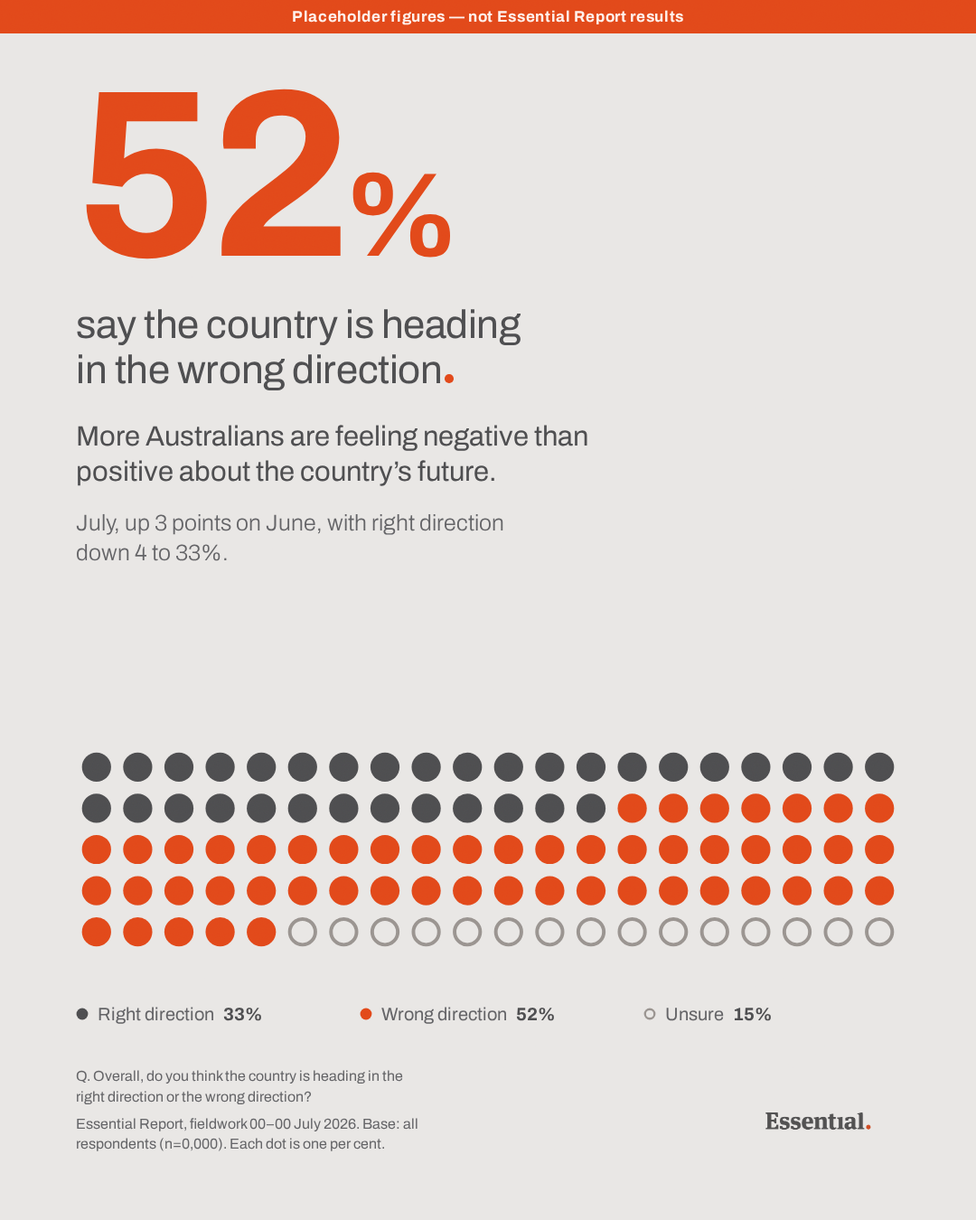
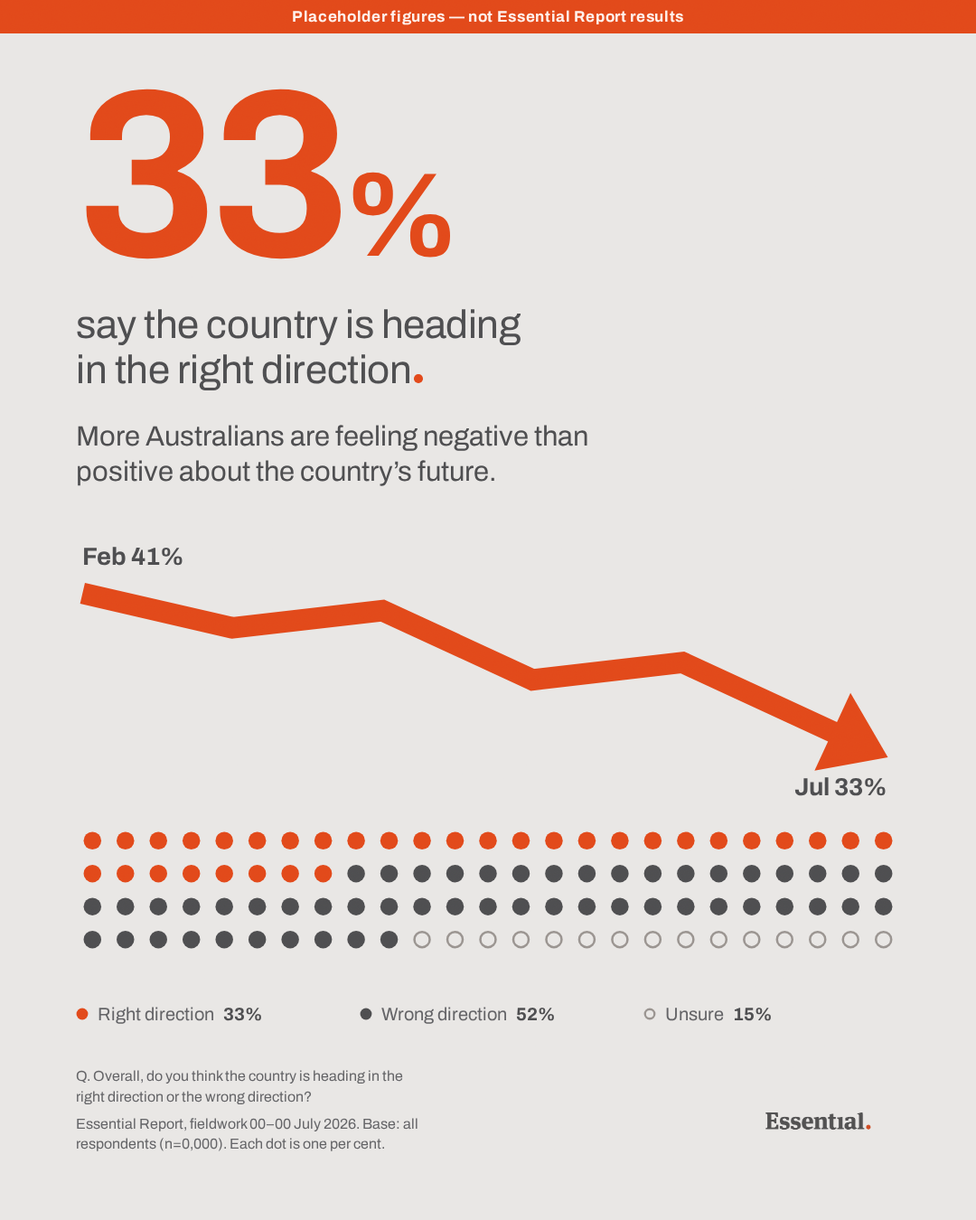
Draw the trend as an arrow, and drop the movement sentence
A shape registers before a sentence does, and the tile had no signal that
things were moving at all until you read the third line.

Adds a heavy arrow across the middle of the tile. Not a stock icon: the
house list bans icons used as data marks, and a generic downward arrow
asserts a slide the figures may not support. Every elbow is a real monthly
reading — x evenly spaced by month, y on a linear scale, so pixels-per-point
is constant across the line. Geometric rather than rounded, matching the
brand's register: miter joins, butt caps, one flat fill.

The build refuses to run if the series' last two points disagree with the
june and july figures, so the arrow cannot contradict the key beneath it.

The arrow takes the accent, which means it must track the group the accent
already names — otherwise orange means one thing in the hero figure and
another in the line. So DATA["accent"] is now a single switch with two
coherent settings: "right" gives a falling arrow and a hero reporting the
positive share, "wrong" gives a climbing arrow and the negative share.
Default flipped to "right" for the falling picture.

The movement sentence is removed — the arrow states it. The dot band goes
to 25x4 to give up the height.

The seeded series is a placeholder that happens to decline. If the real
readings don't, the arrow won't.

Clean under check-artifact.py --strict.

Claude-Session: https://claude.ai/code/session_0177wYinpJbYXVs6buR3dcrH

diff --git a/examples/essential-report-july-2026/tile.html b/examples/essential-report-july-2026/tile.html
@@ -3,7 +3,7 @@
 <head>
 <meta charset="utf-8">
 <meta name="editorial-motion" content="1.10.0">
-<title>Wrong direction — Essential Report, July</title>
+<title>Right direction — Essential Report, July</title>
 <!-- check-artifact-ignore: homogenise-imagery
      The only raster asset is the Essential wordmark. .an-homogenise greyscales
      what it wraps, which would strip the brand dot out of the logo; the rule
@@ -33,7 +33,7 @@ body::after{
 /* Every block but the plot is flex:none. Without it they share the shrink when
    copy runs long, and the source line silently loses its last row — which is
    the one carrying the sample size. The plot absorbs it all instead. */
-.hero,.hero-label,.takeaway,.change,.keys,.foot{flex:none}
+.hero,.hero-label,.takeaway,.keys,.foot{flex:none}
 
 /* The hero carries the accent because it and the accent dots state the same
    fact. At this size it clears the 3:1 large-text floor (measured 3.27:1);
@@ -58,11 +58,12 @@ body::after{
 .dot-mark{display:inline-block;width:.22em;height:.22em;border-radius:50%;
   background:#E2491A;margin-left:.07em;vertical-align:baseline}
 
-/* One movement line, not three delta chips. */
-.change{
-  margin-top:20px;font-weight:300;font-size:25px;line-height:1.32;
-  color:#636366;max-width:34ch;
-}
+/* The arrow carries the movement, so the sentence that used to state it is
+   gone. Less copy, and the change is legible before anything is read. */
+.arrow{flex:1 1 auto;min-height:0;display:flex;align-items:center;
+  padding:34px 0 10px}
+.trend{width:100%;height:auto;max-height:100%;overflow:visible}
+.tl{font-family:inherit;font-size:30px;font-weight:700;fill:#4E4E50}
 
 /* flex-basis auto, not 0 — a basis of 0 gives the plot no shrink weight, so
    the browser takes the overflow out of the copy blocks instead. min-height:0
@@ -70,8 +71,8 @@ body::after{
 /* The band sits with its key rather than centred in the leftover space: the
    slack collects in one break between the statement and the evidence instead
    of splitting into two gaps that leave the marks floating. */
-.plot{flex:1 1 auto;min-height:0;display:flex;align-items:flex-end;
-  justify-content:flex-start;padding:40px 0 34px}
+.plot{flex:none;display:flex;align-items:flex-end;
+  justify-content:flex-start;padding:26px 0 30px}
 .grid{width:100%;height:auto;max-height:100%}
 
 .keys{display:flex;gap:30px;margin-top:22px}
@@ -94,14 +95,15 @@ body::after{
 </head>
 <body>
 <p class="placeholder">Placeholder figures — not Essential Report results</p>
-<p class="hero">52<span class="unit">%</span></p>
-<h1 class="hero-label">say the country is heading in the wrong direction<span class="dot-mark"></span></h1>
+<p class="hero">33<span class="unit">%</span></p>
+<h1 class="hero-label">say the country is heading in the right direction<span class="dot-mark"></span></h1>
 <p class="takeaway">More Australians are feeling negative than positive about the country’s future.</p>
-<p class="change">July, up 3 points on June, with right direction down 4 to 33%.</p>
 
-<div class="plot"><svg class="grid" viewBox="0 0 1160 290" width="1160" height="290" role="img" aria-label="One hundred dots, one dot for each per cent"><circle cx="29" cy="29" r="20.5" fill="#4E4E50"/><circle cx="87" cy="29" r="20.5" fill="#4E4E50"/><circle cx="145" cy="29" r="20.5" fill="#4E4E50"/><circle cx="203" cy="29" r="20.5" fill="#4E4E50"/><circle cx="261" cy="29" r="20.5" fill="#4E4E50"/><circle cx="319" cy="29" r="20.5" fill="#4E4E50"/><circle cx="377" cy="29" r="20.5" fill="#4E4E50"/><circle cx="435" cy="29" r="20.5" fill="#4E4E50"/><circle cx="493" cy="29" r="20.5" fill="#4E4E50"/><circle cx="551" cy="29" r="20.5" fill="#4E4E50"/><circle cx="609" cy="29" r="20.5" fill="#4E4E50"/><circle cx="667" cy="29" r="20.5" fill="#4E4E50"/><circle cx="725" cy="29" r="20.5" fill="#4E4E50"/><circle cx="783" cy="29" r="20.5" fill="#4E4E50"/><circle cx="841" cy="29" r="20.5" fill="#4E4E50"/><circle cx="899" cy="29" r="20.5" fill="#4E4E50"/><circle cx="957" cy="29" r="20.5" fill="#4E4E50"/><circle cx="1015" cy="29" r="20.5" fill="#4E4E50"/><circle cx="1073" cy="29" r="20.5" fill="#4E4E50"/><circle cx="1131" cy="29" r="20.5" fill="#4E4E50"/><circle cx="29" cy="87" r="20.5" fill="#4E4E50"/><circle cx="87" cy="87" r="20.5" fill="#4E4E50"/><circle cx="145" cy="87" r="20.5" fill="#4E4E50"/><circle cx="203" cy="87" r="20.5" fill="#4E4E50"/><circle cx="261" cy="87" r="20.5" fill="#4E4E50"/><circle cx="319" cy="87" r="20.5" fill="#4E4E50"/><circle cx="377" cy="87" r="20.5" fill="#4E4E50"/><circle cx="435" cy="87" r="20.5" fill="#4E4E50"/><circle cx="493" cy="87" r="20.5" fill="#4E4E50"/><circle cx="551" cy="87" r="20.5" fill="#4E4E50"/><circle cx="609" cy="87" r="20.5" fill="#4E4E50"/><circle cx="667" cy="87" r="20.5" fill="#4E4E50"/><circle cx="725" cy="87" r="20.5" fill="#4E4E50"/><circle cx="783" cy="87" r="20.5" fill="#E2491A"/><circle cx="841" cy="87" r="20.5" fill="#E2491A"/><circle cx="899" cy="87" r="20.5" fill="#E2491A"/><circle cx="957" cy="87" r="20.5" fill="#E2491A"/><circle cx="1015" cy="87" r="20.5" fill="#E2491A"/><circle cx="1073" cy="87" r="20.5" fill="#E2491A"/><circle cx="1131" cy="87" r="20.5" fill="#E2491A"/><circle cx="29" cy="145" r="20.5" fill="#E2491A"/><circle cx="87" cy="145" r="20.5" fill="#E2491A"/><circle cx="145" cy="145" r="20.5" fill="#E2491A"/><circle cx="203" cy="145" r="20.5" fill="#E2491A"/><circle cx="261" cy="145" r="20.5" fill="#E2491A"/><circle cx="319" cy="145" r="20.5" fill="#E2491A"/><circle cx="377" cy="145" r="20.5" fill="#E2491A"/><circle cx="435" cy="145" r="20.5" fill="#E2491A"/><circle cx="493" cy="145" r="20.5" fill="#E2491A"/><circle cx="551" cy="145" r="20.5" fill="#E2491A"/><circle cx="609" cy="145" r="20.5" fill="#E2491A"/><circle cx="667" cy="145" r="20.5" fill="#E2491A"/><circle cx="725" cy="145" r="20.5" fill="#E2491A"/><circle cx="783" cy="145" r="20.5" fill="#E2491A"/><circle cx="841" cy="145" r="20.5" fill="#E2491A"/><circle cx="899" cy="145" r="20.5" fill="#E2491A"/><circle cx="957" cy="145" r="20.5" fill="#E2491A"/><circle cx="1015" cy="145" r="20.5" fill="#E2491A"/><circle cx="1073" cy="145" r="20.5" fill="#E2491A"/><circle cx="1131" cy="145" r="20.5" fill="#E2491A"/><circle cx="29" cy="203" r="20.5" fill="#E2491A"/><circle cx="87" cy="203" r="20.5" fill="#E2491A"/><circle cx="145" cy="203" r="20.5" fill="#E2491A"/><circle cx="203" cy="203" r="20.5" fill="#E2491A"/><circle cx="261" cy="203" r="20.5" fill="#E2491A"/><circle cx="319" cy="203" r="20.5" fill="#E2491A"/><circle cx="377" cy="203" r="20.5" fill="#E2491A"/><circle cx="435" cy="203" r="20.5" fill="#E2491A"/><circle cx="493" cy="203" r="20.5" fill="#E2491A"/><circle cx="551" cy="203" r="20.5" fill="#E2491A"/><circle cx="609" cy="203" r="20.5" fill="#E2491A"/><circle cx="667" cy="203" r="20.5" fill="#E2491A"/><circle cx="725" cy="203" r="20.5" fill="#E2491A"/><circle cx="783" cy="203" r="20.5" fill="#E2491A"/><circle cx="841" cy="203" r="20.5" fill="#E2491A"/><circle cx="899" cy="203" r="20.5" fill="#E2491A"/><circle cx="957" cy="203" r="20.5" fill="#E2491A"/><circle cx="1015" cy="203" r="20.5" fill="#E2491A"/><circle cx="1073" cy="203" r="20.5" fill="#E2491A"/><circle cx="1131" cy="203" r="20.5" fill="#E2491A"/><circle cx="29" cy="261" r="20.5" fill="#E2491A"/><circle cx="87" cy="261" r="20.5" fill="#E2491A"/><circle cx="145" cy="261" r="20.5" fill="#E2491A"/><circle cx="203" cy="261" r="20.5" fill="#E2491A"/><circle cx="261" cy="261" r="20.5" fill="#E2491A"/><circle cx="319" cy="261" r="18" fill="none" stroke="#9A9490" stroke-width="5"/><circle cx="377" cy="261" r="18" fill="none" stroke="#9A9490" stroke-width="5"/><circle cx="435" cy="261" r="18" fill="none" stroke="#9A9490" stroke-width="5"/><circle cx="493" cy="261" r="18" fill="none" stroke="#9A9490" stroke-width="5"/><circle cx="551" cy="261" r="18" fill="none" stroke="#9A9490" stroke-width="5"/><circle cx="609" cy="261" r="18" fill="none" stroke="#9A9490" stroke-width="5"/><circle cx="667" cy="261" r="18" fill="none" stroke="#9A9490" stroke-width="5"/><circle cx="725" cy="261" r="18" fill="none" stroke="#9A9490" stroke-width="5"/><circle cx="783" cy="261" r="18" fill="none" stroke="#9A9490" stroke-width="5"/><circle cx="841" cy="261" r="18" fill="none" stroke="#9A9490" stroke-width="5"/><circle cx="899" cy="261" r="18" fill="none" stroke="#9A9490" stroke-width="5"/><circle cx="957" cy="261" r="18" fill="none" stroke="#9A9490" stroke-width="5"/><circle cx="1015" cy="261" r="18" fill="none" stroke="#9A9490" stroke-width="5"/><circle cx="1073" cy="261" r="18" fill="none" stroke="#9A9490" stroke-width="5"/><circle cx="1131" cy="261" r="18" fill="none" stroke="#9A9490" stroke-width="5"/></svg></div>
+<div class="arrow"><svg class="trend" viewBox="0 0 1000 300" role="img" aria-label="Right direction, falling from 41% in Feb to 33% in Jul"><polyline points="8.0,74.0 190.0,116.0 372.0,95.0 554.0,179.0 736.0,158.0 918.0,242.0 919.8,242.8" fill="none" stroke="#E2491A" stroke-width="26" stroke-linejoin="miter" stroke-linecap="butt"/><polygon points="985.2,273.0 896.2,289.2 939.8,194.8" fill="#E2491A"/><text x="8.0" y="40.0" class="tl">Feb 41%</text><text x="985.2" y="319.0" text-anchor="end" class="tl tl-end">Jul 33%</text></svg></div>
 
-<div class="keys"><p class="k"><svg class="sw" viewBox="0 0 24 24" width="14" height="14"><circle cx="12" cy="12" r="11" fill="#4E4E50"/></svg><span class="k-name">Right direction</span><span class="k-val">33%</span></p><p class="k"><svg class="sw" viewBox="0 0 24 24" width="14" height="14"><circle cx="12" cy="12" r="11" fill="#E2491A"/></svg><span class="k-name">Wrong direction</span><span class="k-val">52%</span></p><p class="k"><svg class="sw" viewBox="0 0 24 24" width="14" height="14"><circle cx="12" cy="12" r="9" fill="none" stroke="#9A9490" stroke-width="4"/></svg><span class="k-name">Unsure</span><span class="k-val">15%</span></p></div>
+<div class="plot"><svg class="grid" viewBox="0 0 1450 232" width="1450" height="232" role="img" aria-label="One hundred dots, one dot for each per cent"><circle cx="29" cy="29" r="15.5" fill="#E2491A"/><circle cx="87" cy="29" r="15.5" fill="#E2491A"/><circle cx="145" cy="29" r="15.5" fill="#E2491A"/><circle cx="203" cy="29" r="15.5" fill="#E2491A"/><circle cx="261" cy="29" r="15.5" fill="#E2491A"/><circle cx="319" cy="29" r="15.5" fill="#E2491A"/><circle cx="377" cy="29" r="15.5" fill="#E2491A"/><circle cx="435" cy="29" r="15.5" fill="#E2491A"/><circle cx="493" cy="29" r="15.5" fill="#E2491A"/><circle cx="551" cy="29" r="15.5" fill="#E2491A"/><circle cx="609" cy="29" r="15.5" fill="#E2491A"/><circle cx="667" cy="29" r="15.5" fill="#E2491A"/><circle cx="725" cy="29" r="15.5" fill="#E2491A"/><circle cx="783" cy="29" r="15.5" fill="#E2491A"/><circle cx="841" cy="29" r="15.5" fill="#E2491A"/><circle cx="899" cy="29" r="15.5" fill="#E2491A"/><circle cx="957" cy="29" r="15.5" fill="#E2491A"/><circle cx="1015" cy="29" r="15.5" fill="#E2491A"/><circle cx="1073" cy="29" r="15.5" fill="#E2491A"/><circle cx="1131" cy="29" r="15.5" fill="#E2491A"/><circle cx="1189" cy="29" r="15.5" fill="#E2491A"/><circle cx="1247" cy="29" r="15.5" fill="#E2491A"/><circle cx="1305" cy="29" r="15.5" fill="#E2491A"/><circle cx="1363" cy="29" r="15.5" fill="#E2491A"/><circle cx="1421" cy="29" r="15.5" fill="#E2491A"/><circle cx="29" cy="87" r="15.5" fill="#E2491A"/><circle cx="87" cy="87" r="15.5" fill="#E2491A"/><circle cx="145" cy="87" r="15.5" fill="#E2491A"/><circle cx="203" cy="87" r="15.5" fill="#E2491A"/><circle cx="261" cy="87" r="15.5" fill="#E2491A"/><circle cx="319" cy="87" r="15.5" fill="#E2491A"/><circle cx="377" cy="87" r="15.5" fill="#E2491A"/><circle cx="435" cy="87" r="15.5" fill="#E2491A"/><circle cx="493" cy="87" r="15.5" fill="#4E4E50"/><circle cx="551" cy="87" r="15.5" fill="#4E4E50"/><circle cx="609" cy="87" r="15.5" fill="#4E4E50"/><circle cx="667" cy="87" r="15.5" fill="#4E4E50"/><circle cx="725" cy="87" r="15.5" fill="#4E4E50"/><circle cx="783" cy="87" r="15.5" fill="#4E4E50"/><circle cx="841" cy="87" r="15.5" fill="#4E4E50"/><circle cx="899" cy="87" r="15.5" fill="#4E4E50"/><circle cx="957" cy="87" r="15.5" fill="#4E4E50"/><circle cx="1015" cy="87" r="15.5" fill="#4E4E50"/><circle cx="1073" cy="87" r="15.5" fill="#4E4E50"/><circle cx="1131" cy="87" r="15.5" fill="#4E4E50"/><circle cx="1189" cy="87" r="15.5" fill="#4E4E50"/><circle cx="1247" cy="87" r="15.5" fill="#4E4E50"/><circle cx="1305" cy="87" r="15.5" fill="#4E4E50"/><circle cx="1363" cy="87" r="15.5" fill="#4E4E50"/><circle cx="1421" cy="87" r="15.5" fill="#4E4E50"/><circle cx="29" cy="145" r="15.5" fill="#4E4E50"/><circle cx="87" cy="145" r="15.5" fill="#4E4E50"/><circle cx="145" cy="145" r="15.5" fill="#4E4E50"/><circle cx="203" cy="145" r="15.5" fill="#4E4E50"/><circle cx="261" cy="145" r="15.5" fill="#4E4E50"/><circle cx="319" cy="145" r="15.5" fill="#4E4E50"/><circle cx="377" cy="145" r="15.5" fill="#4E4E50"/><circle cx="435" cy="145" r="15.5" fill="#4E4E50"/><circle cx="493" cy="145" r="15.5" fill="#4E4E50"/><circle cx="551" cy="145" r="15.5" fill="#4E4E50"/><circle cx="609" cy="145" r="15.5" fill="#4E4E50"/><circle cx="667" cy="145" r="15.5" fill="#4E4E50"/><circle cx="725" cy="145" r="15.5" fill="#4E4E50"/><circle cx="783" cy="145" r="15.5" fill="#4E4E50"/><circle cx="841" cy="145" r="15.5" fill="#4E4E50"/><circle cx="899" cy="145" r="15.5" fill="#4E4E50"/><circle cx="957" cy="145" r="15.5" fill="#4E4E50"/><circle cx="1015" cy="145" r="15.5" fill="#4E4E50"/><circle cx="1073" cy="145" r="15.5" fill="#4E4E50"/><circle cx="1131" cy="145" r="15.5" fill="#4E4E50"/><circle cx="1189" cy="145" r="15.5" fill="#4E4E50"/><circle cx="1247" cy="145" r="15.5" fill="#4E4E50"/><circle cx="1305" cy="145" r="15.5" fill="#4E4E50"/><circle cx="1363" cy="145" r="15.5" fill="#4E4E50"/><circle cx="1421" cy="145" r="15.5" fill="#4E4E50"/><circle cx="29" cy="203" r="15.5" fill="#4E4E50"/><circle cx="87" cy="203" r="15.5" fill="#4E4E50"/><circle cx="145" cy="203" r="15.5" fill="#4E4E50"/><circle cx="203" cy="203" r="15.5" fill="#4E4E50"/><circle cx="261" cy="203" r="15.5" fill="#4E4E50"/><circle cx="319" cy="203" r="15.5" fill="#4E4E50"/><circle cx="377" cy="203" r="15.5" fill="#4E4E50"/><circle cx="435" cy="203" r="15.5" fill="#4E4E50"/><circle cx="493" cy="203" r="15.5" fill="#4E4E50"/><circle cx="551" cy="203" r="15.5" fill="#4E4E50"/><circle cx="609" cy="203" r="13.5" fill="none" stroke="#9A9490" stroke-width="4"/><circle cx="667" cy="203" r="13.5" fill="none" stroke="#9A9490" stroke-width="4"/><circle cx="725" cy="203" r="13.5" fill="none" stroke="#9A9490" stroke-width="4"/><circle cx="783" cy="203" r="13.5" fill="none" stroke="#9A9490" stroke-width="4"/><circle cx="841" cy="203" r="13.5" fill="none" stroke="#9A9490" stroke-width="4"/><circle cx="899" cy="203" r="13.5" fill="none" stroke="#9A9490" stroke-width="4"/><circle cx="957" cy="203" r="13.5" fill="none" stroke="#9A9490" stroke-width="4"/><circle cx="1015" cy="203" r="13.5" fill="none" stroke="#9A9490" stroke-width="4"/><circle cx="1073" cy="203" r="13.5" fill="none" stroke="#9A9490" stroke-width="4"/><circle cx="1131" cy="203" r="13.5" fill="none" stroke="#9A9490" stroke-width="4"/><circle cx="1189" cy="203" r="13.5" fill="none" stroke="#9A9490" stroke-width="4"/><circle cx="1247" cy="203" r="13.5" fill="none" stroke="#9A9490" stroke-width="4"/><circle cx="1305" cy="203" r="13.5" fill="none" stroke="#9A9490" stroke-width="4"/><circle cx="1363" cy="203" r="13.5" fill="none" stroke="#9A9490" stroke-width="4"/><circle cx="1421" cy="203" r="13.5" fill="none" stroke="#9A9490" stroke-width="4"/></svg></div>
+
+<div class="keys"><p class="k"><svg class="sw" viewBox="0 0 24 24" width="14" height="14"><circle cx="12" cy="12" r="11" fill="#E2491A"/></svg><span class="k-name">Right direction</span><span class="k-val">33%</span></p><p class="k"><svg class="sw" viewBox="0 0 24 24" width="14" height="14"><circle cx="12" cy="12" r="11" fill="#4E4E50"/></svg><span class="k-name">Wrong direction</span><span class="k-val">52%</span></p><p class="k"><svg class="sw" viewBox="0 0 24 24" width="14" height="14"><circle cx="12" cy="12" r="9" fill="none" stroke="#9A9490" stroke-width="4"/></svg><span class="k-name">Unsure</span><span class="k-val">15%</span></p></div>
 
 <div class="foot">
   <p class="src">

diff --git a/examples/essential-report-july-2026/build.py b/examples/essential-report-july-2026/build.py
@@ -53,7 +53,21 @@ DATA = {
 
     # Which group carries the accent. This is the editorial decision: the
     # accent goes on the mark that proves the finding, and on nothing else.
-    "accent": "wrong",
+    #
+    # The arrow tracks this same group, because the accent may only mean one
+    # thing on a tile. "right" gives a falling arrow (positive sentiment
+    # draining away); "wrong" gives a climbing one (negativity building).
+    # Both are the same story; they are not the same picture.
+    "accent": "right",
+
+    # The trend the arrow draws — ordered oldest to newest, values for the
+    # accent group. The last two entries must match "june" and "july" or the
+    # build stops, so the arrow can never contradict the key beneath it.
+    # ⚠ PLACEHOLDER SERIES. Replace with the real monthly readings; with
+    # fewer than four points the arrow is a single straight segment and reads
+    # as a change rather than a trend.
+    "trend": [("Feb", 41), ("Mar", 39), ("Apr", 40),
+              ("May", 36), ("Jun", 37), ("Jul", 33)],
 
     # What the hero figure IS — the one number the tile exists to deliver.
     #   "level"  the accent group's own share this month
@@ -105,15 +119,15 @@ ACCENT = "#E2491A"
 MID = "#9A9490"
 
 W, H = 1080, 1350
-# 20 x 5 rather than 10 x 10: the band then runs the full text measure, so the
-# marks, the headline and the key row all share one left edge. A square hundred
-# would have to shrink to about half the measure to fit the portrait canvas and
-# would float free of the type.
-COLS, ROWS = 20, 5
+# A wide band rather than a square hundred: it runs the full text measure, so
+# the marks, the copy and the key all share one left edge. 25 x 4 rather than
+# 20 x 5 because the arrow now takes the height the band used to have — the
+# band is the supporting evidence, the arrow is the impression.
+COLS, ROWS = 25, 4
 CELL = 58
-DOT_R = 20.5
-RING_R = 18.0
-RING_W = 5.0
+DOT_R = 15.5
+RING_R = 13.5
+RING_W = 4.0
 
 ARCHIVO = "https://fonts.googleapis.com/css2?family=Archivo:wght@300;400;700"
 GLYPHS = ("abcdefghijklmnopqrstuvwxyz"
@@ -352,6 +366,87 @@ def grid_svg(dots: dict[str, int], accent_key: str) -> str:
             + "".join(marks) + "</svg>"), fills
 
 
+def trend_arrow(data: dict) -> str:
+    """The trend, drawn as an arrow.
+
+    A stock downward arrow dropped onto a tile is an icon used as a data mark,
+    which the house list bans, and it asserts a slide the figures may not
+    support. This one is the same shape but every elbow is a real reading:
+    x is evenly spaced by month, y is a linear scale over the series, so
+    pixels-per-point is constant across the whole line. The impression is
+    immediate and it is also true.
+
+    Geometric rather than rounded — miter joins and butt caps, one flat fill,
+    no gradient or shadow. That is the brand's register and it happens to be
+    the sharper drawing anyway.
+    """
+    series = data["trend"]
+    metric = data["accent"]
+    if len(series) < 2:
+        raise SystemExit("trend needs at least two readings")
+
+    # The arrow may not disagree with the numbers printed beneath it.
+    for label, month in ((series[-1], "july"), (series[-2], "june")):
+        if label[1] != data[month][metric]:
+            raise SystemExit(
+                f'trend ends {series[-2][1]}, {series[-1][1]} but '
+                f'{metric} reads {data["june"][metric]}, '
+                f'{data["july"][metric]} — fix DATA["trend"]')
+
+    VW, VH = 1000.0, 300.0
+    PAD_X, TOP, BOT = 8.0, 74.0, 58.0     # room for the endpoint labels
+    HEAD_L, HEAD_W, STROKE = 74.0, 52.0, 26.0
+
+    values = [v for _, v in series]
+    lo, hi = min(values), max(values)
+    span = (hi - lo) or 1.0
+    plot_w = VW - 2 * PAD_X - HEAD_L
+    plot_h = VH - TOP - BOT
+
+    pts = []
+    for i, (_, v) in enumerate(series):
+        x = PAD_X + plot_w * i / (len(series) - 1)
+        y = TOP + (hi - v) / span * plot_h        # constant px per point
+        pts.append((x, y))
+
+    # Extend past the last reading by one step so the head sits clear of it,
+    # holding the direction the final segment already established.
+    (x0, y0), (x1, y1) = pts[-2], pts[-1]
+    dx, dy = x1 - x0, y1 - y0
+    length = (dx * dx + dy * dy) ** .5 or 1.0
+    ux, uy = dx / length, dy / length
+    tip = (x1 + ux * HEAD_L, y1 + uy * HEAD_L)
+    base = (tip[0] - ux * HEAD_L, tip[1] - uy * HEAD_L)
+    px_, py_ = -uy, ux                                   # perpendicular
+
+    line = pts + [(base[0] + ux * 2, base[1] + uy * 2)]
+    path = " ".join(f"{x:.1f},{y:.1f}" for x, y in line)
+    head = (f"{tip[0]:.1f},{tip[1]:.1f} "
+            f"{base[0] + px_ * HEAD_W:.1f},{base[1] + py_ * HEAD_W:.1f} "
+            f"{base[0] - px_ * HEAD_W:.1f},{base[1] - py_ * HEAD_W:.1f}")
+
+    # Endpoint labels only. Drawn in the same coordinate space as the line, so
+    # they cannot drift off it when the data or the canvas changes.
+    first, last = series[0], series[-1]
+    labels = (
+        f'<text x="{pts[0][0]:.1f}" y="{pts[0][1] - 34:.1f}" '
+        f'class="tl">{first[0]} {fmt_pct(first[1])}</text>'
+        f'<text x="{tip[0]:.1f}" y="{tip[1] + 46:.1f}" text-anchor="end" '
+        f'class="tl tl-end">{last[0]} {fmt_pct(last[1])}</text>')
+
+    direction = "falling" if values[-1] < values[0] else "rising"
+    return (
+        f'<svg class="trend" viewBox="0 0 {VW:g} {VH:g}" role="img" '
+        f'aria-label="{LABELS[metric]}, {direction} from '
+        f'{fmt_pct(values[0])} in {first[0]} to {fmt_pct(values[-1])} in '
+        f'{last[0]}">'
+        f'<polyline points="{path}" fill="none" stroke="{ACCENT}" '
+        f'stroke-width="{STROKE:g}" stroke-linejoin="miter" '
+        f'stroke-linecap="butt"/>'
+        f'<polygon points="{head}" fill="{ACCENT}"/>'
+        f'{labels}</svg>')
+
+
 def key_row(data: dict, fills: dict) -> str:
     """Names the three colours and gives their shares — small, on one line
     each. This is support, not a second headline: no deltas here, and nothing
@@ -382,6 +477,7 @@ def build_html(data: dict) -> str:
     hero_fig = hero_markup(figure)
     svg, fills = grid_svg(dots, data["accent"])
     keys = key_row(data, fills)
+    arrow = trend_arrow(data)
     faces, stack = font_css()
 
     logo = (HERE.parents[1] / "plugins/editorial-motion/skills/"
@@ -433,7 +529,7 @@ body::after{{
 /* Every block but the plot is flex:none. Without it they share the shrink when
    copy runs long, and the source line silently loses its last row — which is
    the one carrying the sample size. The plot absorbs it all instead. */
-.hero,.hero-label,.takeaway,.change,.keys,.foot{{flex:none}}
+.hero,.hero-label,.takeaway,.keys,.foot{{flex:none}}
 
 /* The hero carries the accent because it and the accent dots state the same
    fact. At this size it clears the 3:1 large-text floor (measured 3.27:1);
@@ -458,11 +554,12 @@ body::after{{
 .dot-mark{{display:inline-block;width:.22em;height:.22em;border-radius:50%;
   background:{ACCENT};margin-left:.07em;vertical-align:baseline}}
 
-/* One movement line, not three delta chips. */
-.change{{
-  margin-top:20px;font-weight:300;font-size:25px;line-height:1.32;
-  color:{MUTED};max-width:34ch;
-}}
+/* The arrow carries the movement, so the sentence that used to state it is
+   gone. Less copy, and the change is legible before anything is read. */
+.arrow{{flex:1 1 auto;min-height:0;display:flex;align-items:center;
+  padding:34px 0 10px}}
+.trend{{width:100%;height:auto;max-height:100%;overflow:visible}}
+.tl{{font-family:inherit;font-size:30px;font-weight:700;fill:{INK}}}
 
 /* flex-basis auto, not 0 — a basis of 0 gives the plot no shrink weight, so
    the browser takes the overflow out of the copy blocks instead. min-height:0
@@ -470,8 +567,8 @@ body::after{{
 /* The band sits with its key rather than centred in the leftover space: the
    slack collects in one break between the statement and the evidence instead
    of splitting into two gaps that leave the marks floating. */
-.plot{{flex:1 1 auto;min-height:0;display:flex;align-items:flex-end;
-  justify-content:flex-start;padding:40px 0 34px}}
+.plot{{flex:none;display:flex;align-items:flex-end;
+  justify-content:flex-start;padding:26px 0 30px}}
 .grid{{width:100%;height:auto;max-height:100%}}
 
 .keys{{display:flex;gap:30px;margin-top:22px}}
@@ -497,7 +594,8 @@ body::after{{
 <p class="hero">{hero_fig}</p>
 <h1 class="hero-label">{hero_label}<span class="dot-mark"></span></h1>
 <p class="takeaway">{takeaway}</p>
-<p class="change">{change}</p>
+
+<div class="arrow">{arrow}</div>
 
 <div class="plot">{svg}</div>
 

diff --git a/examples/essential-report-july-2026/README.md b/examples/essential-report-july-2026/README.md
@@ -36,7 +36,7 @@ job:
 | hero figure | the number | `52%` |
 | `hero_label` | what it counts, in the poll's own terms | say the country is heading in the wrong direction |
 | `takeaway` | **what it means, in plain terms** | More Australians are feeling negative than positive about the country's future |
-| `change_line` | how it moved | July, up 3 points on June, with right direction down 4 to 33% |
+| `change_line` | how it moved | superseded by the arrow — see below |
 
 The third rung is the one that stops the tile being a number with no reading.
 A percentage and a question wording is a poll result; the sentence a reader
@@ -53,9 +53,51 @@ reading, and check it still says what you mean before publishing.
 | `"gap"` | how far the leading group sits clear of the other |
 | `"change"` | the accent group's movement on June |
 
-Beneath it, a hundred dots — one dot per percentage point — so the proportion
-is countable against a denominator that is on screen. Right direction and wrong
-direction are filled; unsure is drawn as open rings.
+## The arrow
+
+The trend is drawn as a heavy arrow, because a shape registers before any
+word does. It is not a stock icon dropped on top — the house list bans icons
+used as data marks, and a generic downward arrow asserts a slide the figures
+may not support. Every elbow here is a real monthly reading: x is evenly
+spaced by month, y is a linear scale over the series, so pixels-per-point is
+constant across the whole line. Geometric rather than rounded — miter joins,
+butt caps, one flat fill, no gradient or shadow.
+
+Two rules keep it honest:
+
+- **The last two points must equal `june` and `july`.** The build stops if they
+  don't, so the arrow can never contradict the key beneath it.
+- **Fewer than four readings and it is a straight segment**, which reads as a
+  change rather than a trend. Supply real months.
+
+**The arrow's shape is the data's, not the design's.** `DATA["trend"]` currently
+holds a placeholder series that happens to decline. If the real readings don't,
+the arrow won't, and the tile's premise has to be rethought rather than the
+arrow bent to fit.
+
+## The arrow and the accent are the same colour, so they must mean the same thing
+
+A tile gets one accent. The arrow therefore tracks whichever group
+`DATA["accent"]` names, and the hero figure reports that group too — otherwise
+orange would mean one thing in the figure and another in the line, which is the
+fastest way to make a chart lie.
+
+That makes it a single switch with two coherent settings:
+
+| `accent` | Hero | Arrow |
+|---|---|---|
+| `"right"` | the share saying right direction | **falls** — positive sentiment draining away |
+| `"wrong"` | the share saying wrong direction | **climbs** — negativity building |
+
+Same story, different picture. Pick the one that matches the month.
+
+## The dot band
+
+Beneath the arrow, a hundred dots — one dot per percentage point — so the
+proportion is countable against a denominator that is on screen. Right
+direction and wrong direction are filled; unsure is drawn as open rings. It is
+25 × 4 rather than 20 × 5 because the arrow now takes the height the band used
+to have: the band is the supporting evidence, the arrow is the impression.
 
 Three further decisions worth knowing about before editing:
 
@@ -75,9 +117,13 @@ all three categories 25 L\* apart, so unsure is drawn as an open ring. Measured
 in greyscale the four values come out at 79 / 114 / 167 / 231 — distinct by
 luminance as well as by shape.
 
-All three copy rungs derive from the numbers if left as `None`. The reading is
+The copy rungs derive from the numbers if left as `None`. The reading is
 editorial judgement, so write your own when the month has a better story than
 the arithmetic can see.
+
+The movement sentence is gone from the layout — the arrow states the change
+before anyone reads a word, and repeating it in prose was the copy the tile
+could most afford to lose.
 
 ## Checks this passes
 
@@ -87,8 +133,9 @@ the arithmetic can see.
   fails the 4.5:1 floor. The hero figure is set in the accent at 3.27:1, which
   clears the 3:1 large-text floor and nothing smaller may use it
 - Greyscale luminance of the marks: ink 78, accent 113, ring 149, field 231
-- Legible at 200px wide, and as a still — at thumbnail size the hero figure and
-  its label are what survive, which is the point
+- Legible at 200px wide, and as a still — at thumbnail size the hero figure,
+  its label and the arrow's descent are what survive, which is the point. The
+  descent still reads with the colour stripped out
 
 ## Rendering
 
